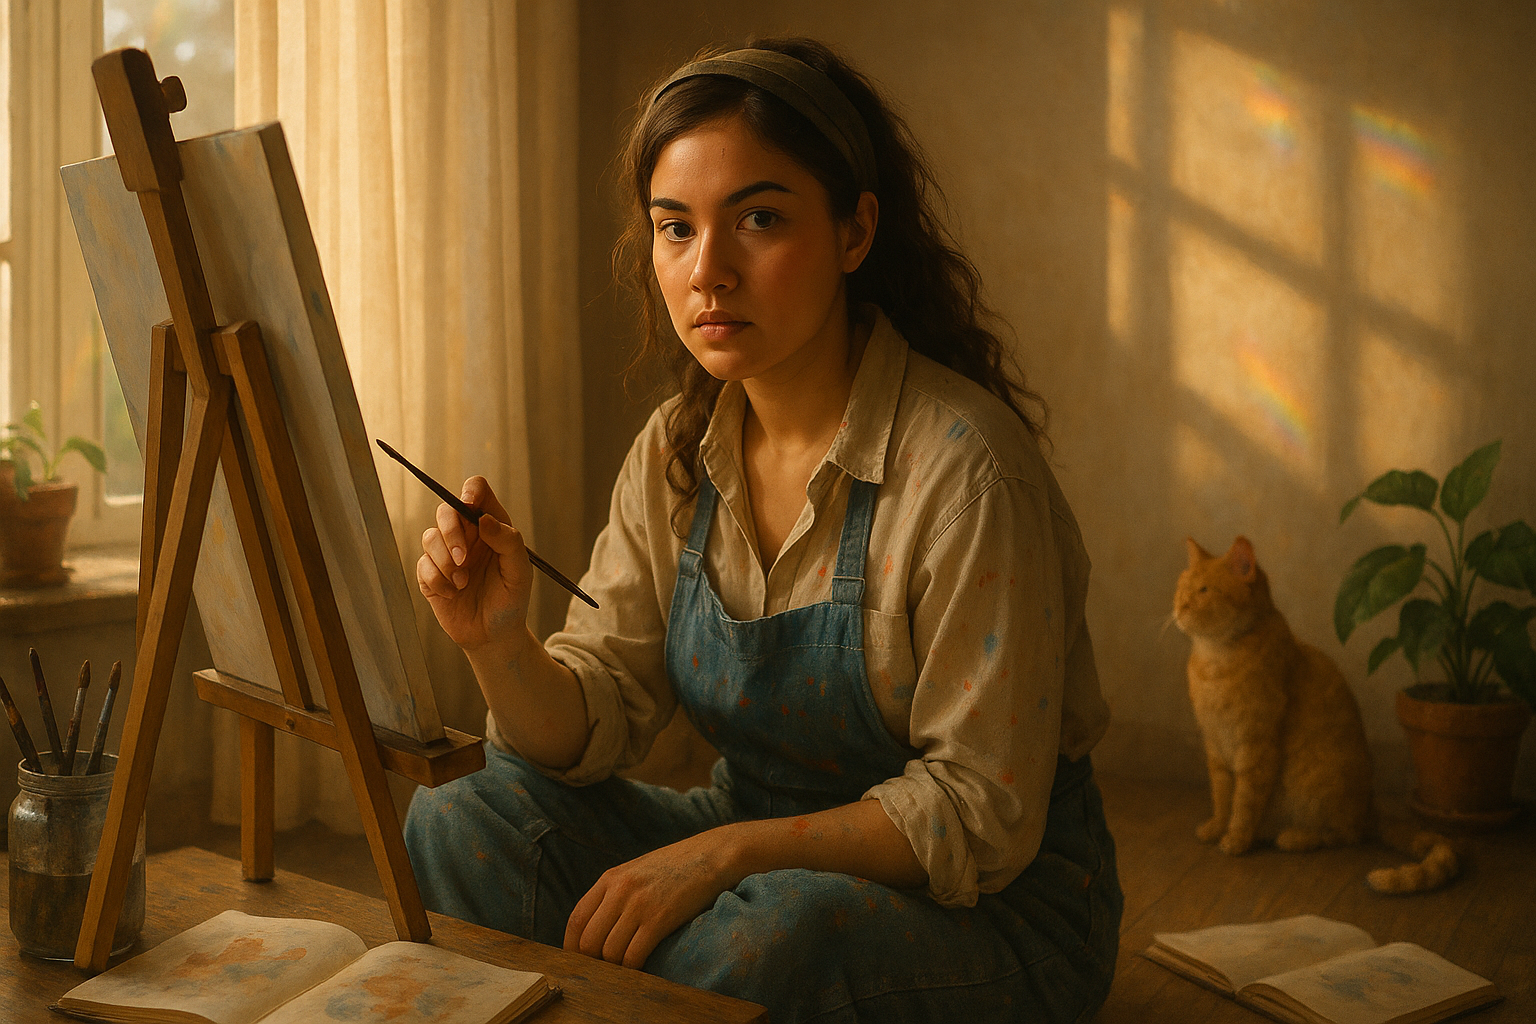
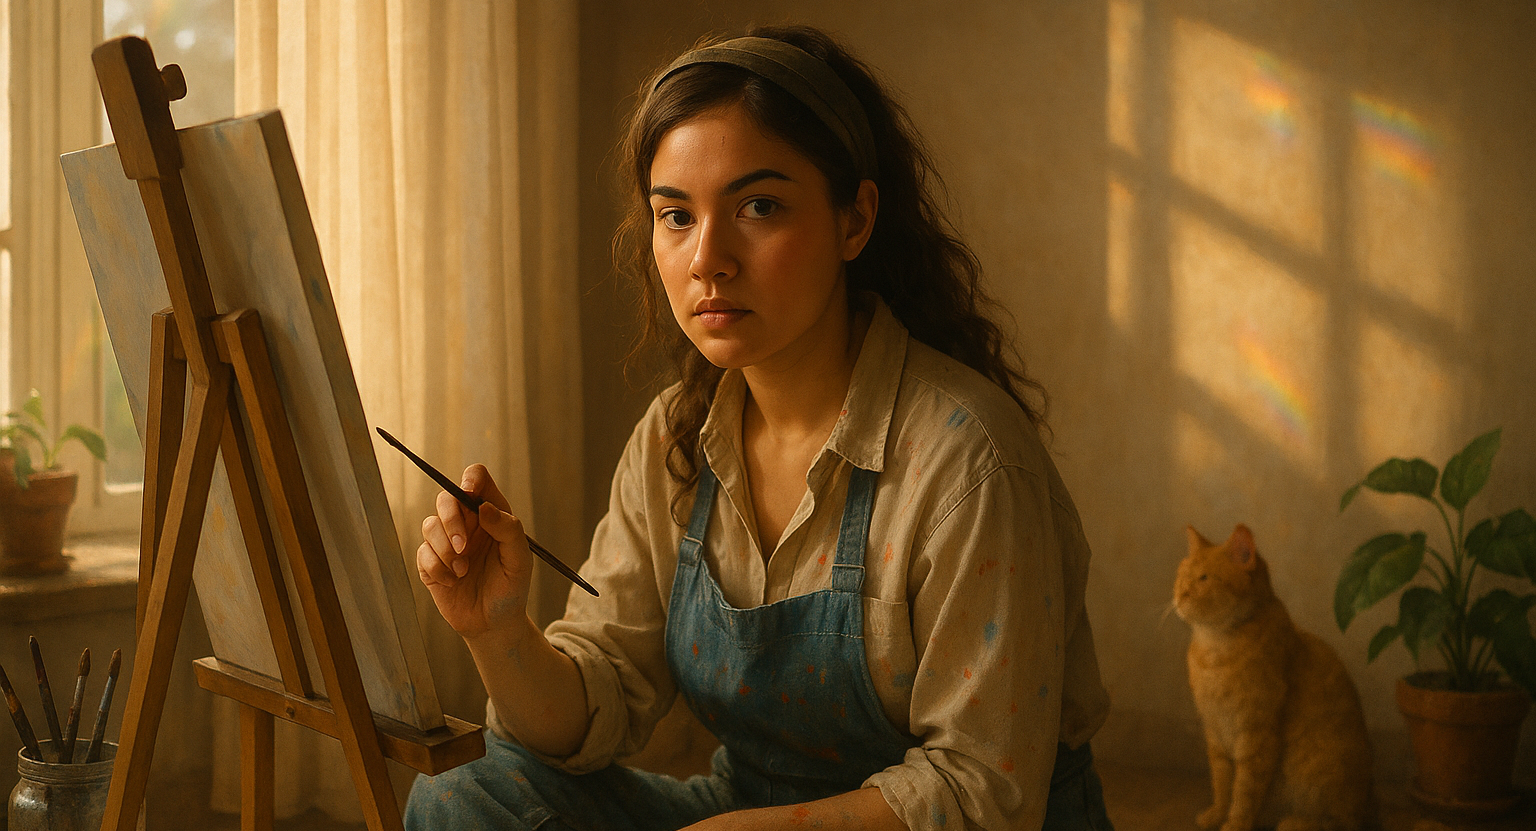
added the divider image with filter and zoom in and out animation

diff --git a/index.html b/index.html
@@ -209,6 +209,36 @@
       transform: translate3d(0, 0, 1em);
     }
 
+    /* Styles for the divider image effect */
+    .divider-container {
+      width: 100vw; /* Force full viewport width */
+      position: relative; /* Needed for horizontal centering trick */
+      left: 50%;
+      transform: translateX(-50%); /* Center the 100vw element */
+      overflow: hidden; /* CRITICAL: Clips the scaled image inside */
+      margin: 12rem 0; /* Vertical spacing, keeps it in flow */
+      line-height: 0; /* Prevent extra space */
+      /* Container itself does NOT move or scale */
+    }
+
+    #divider-image-inner {
+      display: block; /* Ensures proper block layout */
+      /* Ensure image covers container even when scaled */
+      min-width: 100%;
+      min-height: 100%;
+      object-fit: cover; /* Cover the container area */
+      height: auto; /* Maintain aspect ratio (overridden by object-fit if needed) */
+      transform-origin: center center; /* Scale from the center */
+      transition: transform 0.5s ease-out; /* Smooth transition for zoom */
+      /* Stronger old film / grainy filter */
+      
+      filter: contrast(120%) brightness(80%) saturate(150%) hue-rotate(150deg) blur(0.5px);
+      mix-blend-mode: screen;
+      background-color: #0a0a0a;
+      /* Default state: Start zoomed IN */
+      transform: scale(1.05);
+    }
+
   </style>
 </head>
 
@@ -226,7 +256,7 @@
   </header>
 
   <!-- Hero Section -->
-  <section class="text-center mt-32">
+  <section class="text-center mt-16">
     <p class="text-gray-400 text-sm tracking-widest">● AVAILABLE FOR FREELANCE</p>
     <div class="overflow-hidden">
       <h1 class="text-[140px] leading-none font-extrabold transform translate-y-full animate-slide-up">
@@ -240,9 +270,14 @@
     </div>
   </section>
 
-  <div class="flex justify-center mt-10 mb-6">
-      <img src="divider.png" alt="Art Divider" class="w-1/2 rounded-xl shadow-lg">
-    </div>
+  
+  
+
+  <!-- Divider Image Container (Stays fixed in the page flow, full viewport width) -->
+  <div class="divider-container">
+    <!-- Inner Image (This is what scales, but always covers the container) -->
+    <img id="divider-image-inner" src="divider.png" alt="Divider">
+  </div>
 
   <!-- Container for the 2 cards per row (6 cards total) -->
   <div id="card-container">
@@ -308,7 +343,6 @@
         <span>Open</span>
       </div>
     </div>
-  </div>
 
     <!-- Card 4 -->
     <div class="card">
@@ -372,7 +406,24 @@
         <span>Open</span>
       </div>
     </div>
-  </div>
+  </div> <!-- Moved this closing div tag here -->
+
+  <script>
+    // --- Divider Image Internal Zoom Effect ---
+    const dividerInnerImage = document.getElementById('divider-image-inner');
+    const zoomThreshold = 100; // Pixels from top to trigger zoom change
+
+    window.addEventListener('scroll', () => {
+      if (window.scrollY > zoomThreshold) {
+        // Scrolled DOWN: Zoom OUT (scale image to normal size - still covers container)
+        dividerInnerImage.style.transform = 'scale(1)';
+      } else {
+        // Scrolled UP (near top): Zoom IN (scale image UP slightly)
+        dividerInnerImage.style.transform = 'scale(1.05)'; // Back to default zoomed-in state
+      }
+    });
+    // --- End Divider Image Internal Zoom Effect ---
+  </script>
 
 </body>
 </html>
